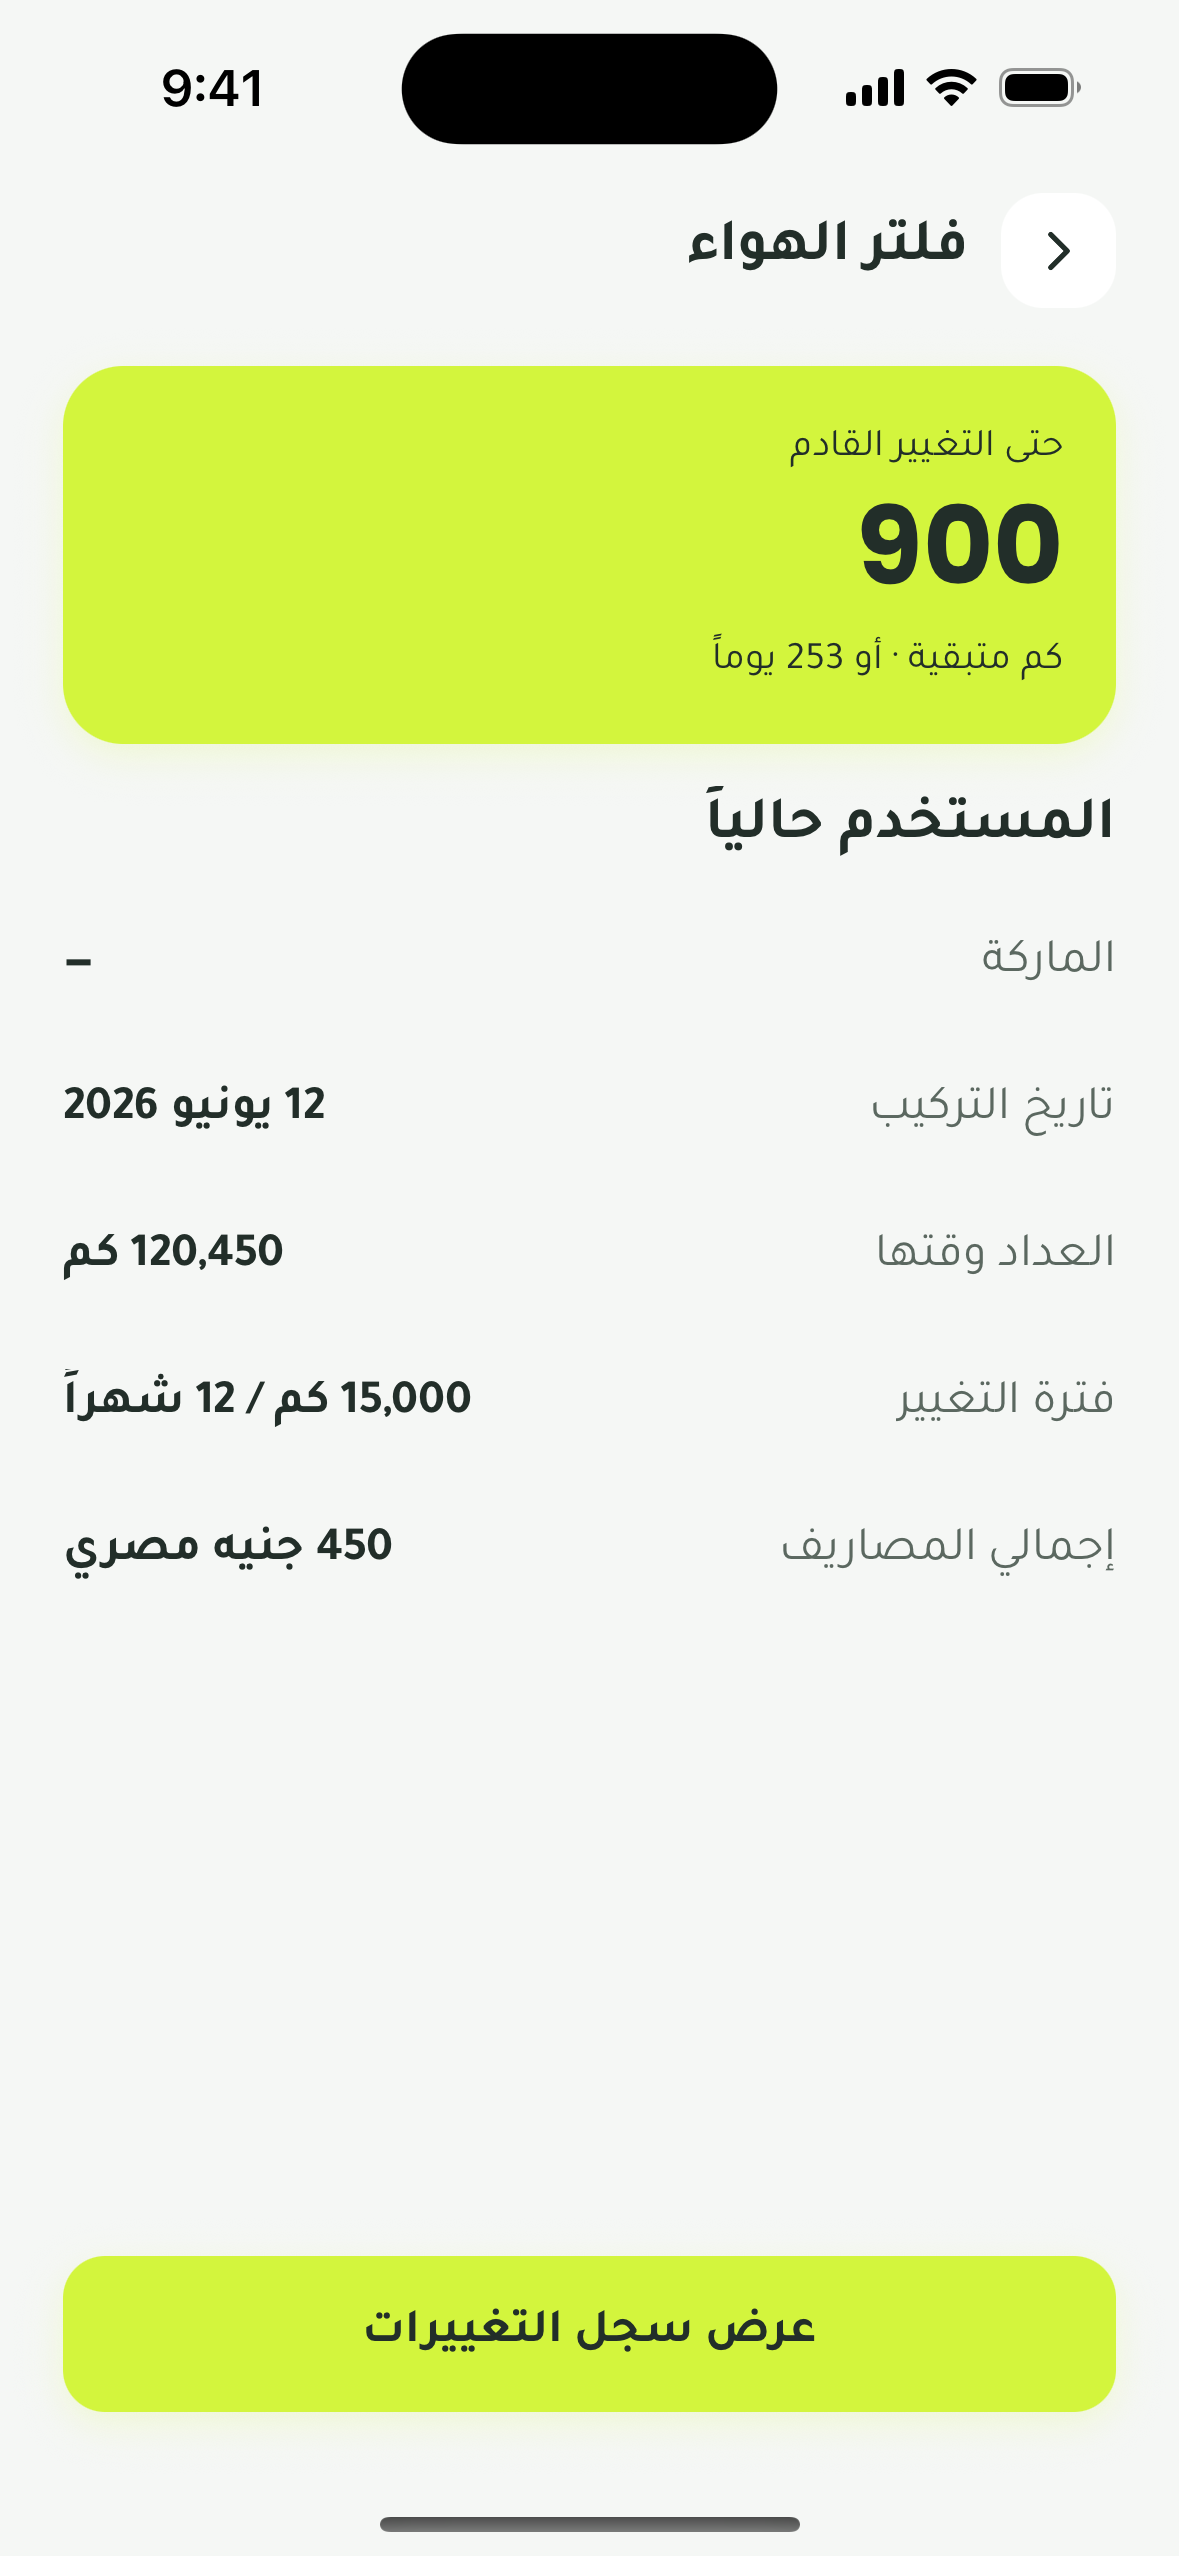
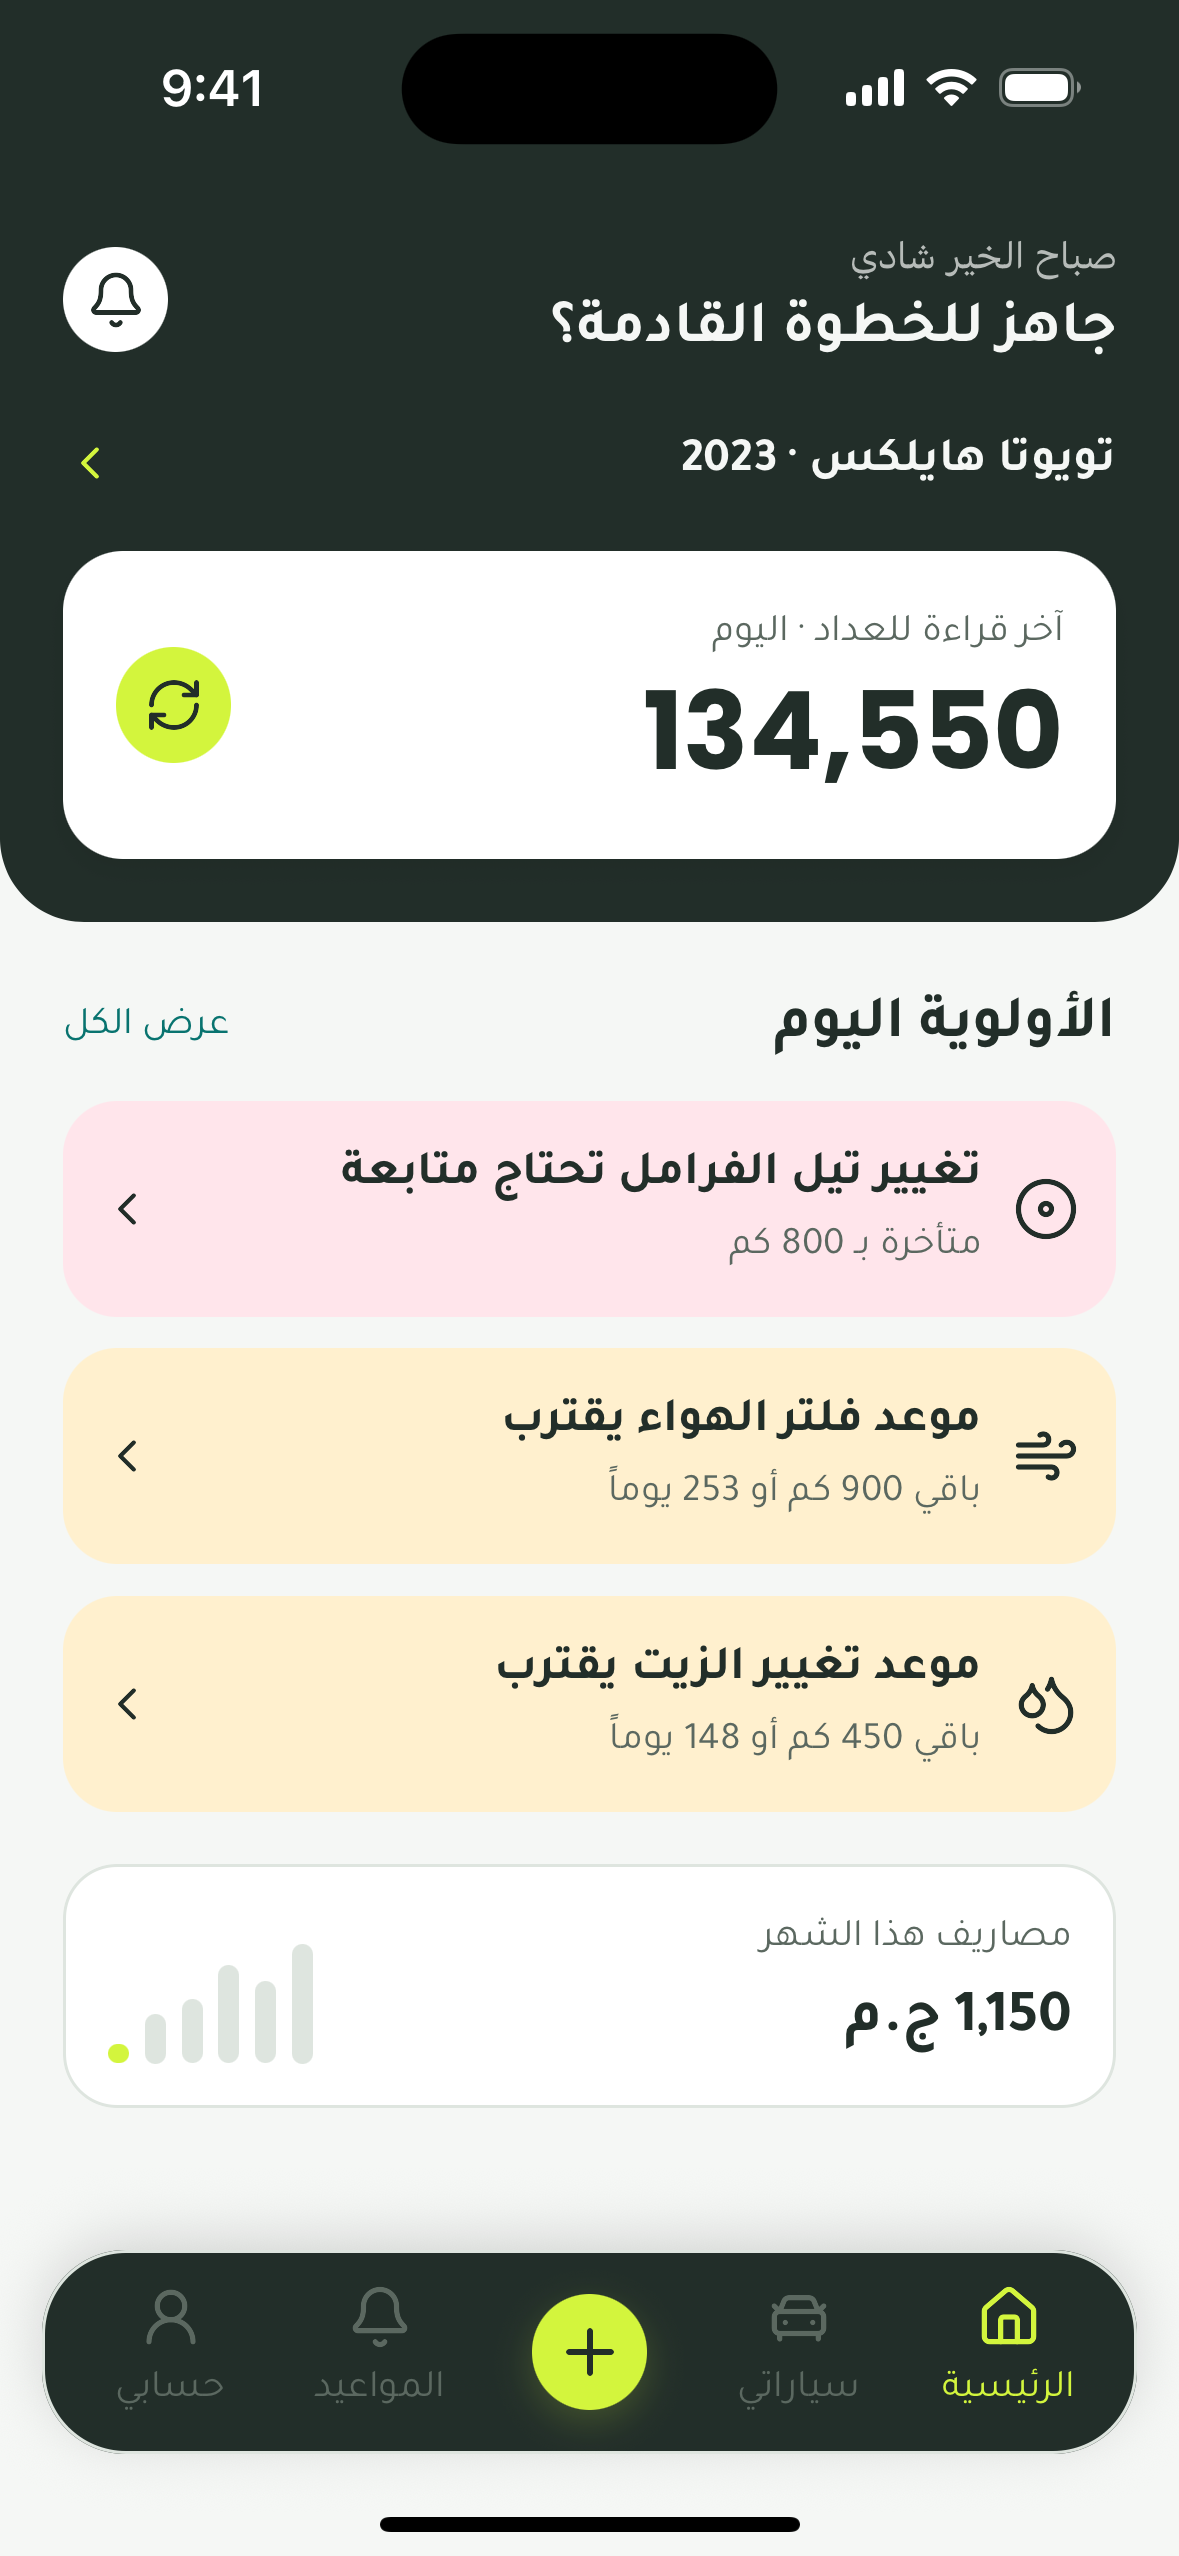
Benefit cards: phone anchored to the card bottom, floating QR card, real Arabic home screen
- The phone in the vehicles and share cards now sits on the card's bottom
  edge (no boxed shadow, no gap under it).
- Share card gets a floating card like the hero's: a real QR code
  (opens bestim-eg.com), title and a 'valid for 7 days' note.
- The Arabic 'home' capture was actually a part-detail screen; recaptured.

diff --git a/src/components/sections/Bento.tsx b/src/components/sections/Bento.tsx
@@ -1,5 +1,6 @@
-import { Disc3, Droplet, UserRound, Wind } from "lucide-react";
-import { Bar, CountUp, Reveal } from "@/components/Motion";
+import { Check, Disc3, Droplet, UserRound, Wind } from "lucide-react";
+import Image from "next/image";
+import { Bar, CountUp, Parallax, Reveal } from "@/components/Motion";
 import { Phone } from "@/components/Phone";
 import { screen } from "@/screens";
 import { SectionHeading } from "@/components/SectionHeading";
@@ -80,13 +81,31 @@ export function Bento({ lang, dict }: { lang: Locale; dict: Dictionary }) {
           {/* Vehicles + share: a phone peeking from the bottom of the card */}
           {(["vehicles", "share"] as const).map((key, i) => (
             <Reveal key={key} delay={i * 0.08} className="md:col-span-2">
-              <div className={`${card} flex flex-col p-7 pb-0`}>
+              <div className={`${card} relative flex flex-col p-7 pb-0`}>
                 <h3 className="text-2xl font-semibold">{t[key].title}</h3>
                 <p className="mt-2 leading-7 text-muted">{t[key].body}</p>
-                <div className="mt-7 h-64 overflow-hidden">
+                {/* The phone sits on the card's bottom edge and is cut off by the card's own rounded corners. */}
+                <div className="mt-auto h-72 pt-7">
                   {/* "vehicles" shows the home screen: the vehicle dashboard is already the hero. */}
                   <Phone src={screen(lang, key === "vehicles" ? "home" : key)} alt={t[key].alt} className="mx-auto w-60" />
                 </div>
+                {key === "share" && (
+                  <Parallax distance={-14} className="absolute end-4 bottom-5">
+                    {/* Same look as the hero's floating cards. The QR code is real: it opens bestim-eg.com. */}
+                    <div className="flex items-center gap-3 rounded-metric bg-white p-2.5 pe-5 text-start shadow-float">
+                      <span className="relative shrink-0 rounded-field bg-mint p-1.5">
+                        <Image src="/brand/qr.svg" alt="" width={56} height={56} unoptimized className="size-14" />
+                        <span className="absolute -end-1.5 -top-1.5 grid size-5 place-items-center rounded-full bg-lime ring-2 ring-white">
+                          <Check className="size-3" strokeWidth={3} />
+                        </span>
+                      </span>
+                      <span>
+                        <span className="block text-sm font-semibold">{t.share.scanTitle}</span>
+                        <span className="block text-xs text-muted">{t.share.scanSub}</span>
+                      </span>
+                    </div>
+                  </Parallax>
+                )}
               </div>
             </Reveal>
           ))}
